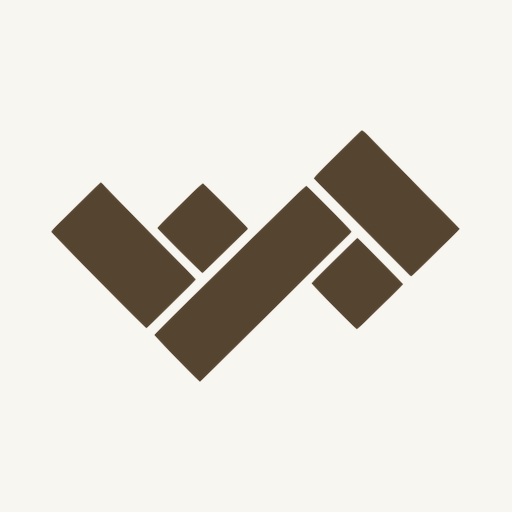
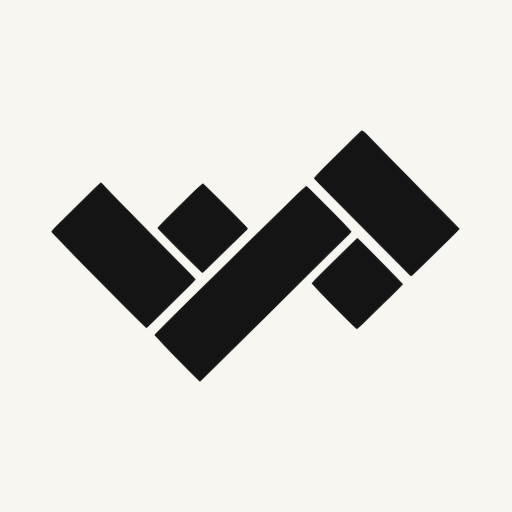
Black and white palette instead of the browns (Nick, 12 Oct)
- Colours: the espresso browns and honey accent are now black, charcoal
  and white; the light bands are a neutral grey.
- Logo in black in the white nav and in white in the footer (new
  img/logo-full-white.png from logo-full.png); favicon and home-screen
  icon in black.
- Hero location line in outline type on wider screens.
- Nick's team card shows a person icon instead of his initials.
- Legal pages: the Legal label stays dark on the light background.

The go-live changes (noindex off, canonical, og) are still held until he
pays.

Changed region(s): [[0.0938, 0.25, 0.9062, 0.75]]

diff --git a/style.css b/style.css
@@ -1,22 +1,22 @@
-/* Rodney Timber Floor Sanding: image-led, espresso + honey timber, Antonio + Figtree */
+/* Rodney Timber Floor Sanding: image-led, black and white (Nick, 12 Oct 2026: black instead of the browns), Antonio + Figtree */
 :root{
-  --accent:#d4913f;        /* honey timber, the one accent */
-  --accent-ink:#8a561b;    /* accent for text on light bands */
-  --brand:#55442f;         /* RTFS logo brown */
-  --char:#1a1511;
-  --char-2:#221b15;
-  --char-3:#2e251d;
-  --cream:#f4f0e8;
-  --ink:#1f1913;
-  --muted:#b3a99c;
-  --muted-dark:#5f554a;
+  --accent:#ffffff;        /* white, the one accent on black */
+  --accent-ink:#111111;    /* accent for text on light bands */
+  --brand:#111111;         /* RTFS logo, in black */
+  --char:#0b0b0b;
+  --char-2:#141414;
+  --char-3:#1e1e1e;
+  --cream:#f2f2f2;
+  --ink:#141414;
+  --muted:#a6a6a6;
+  --muted-dark:#555555;
   --line:rgba(255,255,255,.1);
   --display:'Antonio', 'Arial Narrow', sans-serif;
   --body:'Figtree', Arial, sans-serif;
 }
 *,*::before,*::after{box-sizing:border-box}
 html{scroll-behavior:smooth;scroll-padding-top:76px}
-body{margin:0;font-family:var(--body);font-size:17px;line-height:1.6;color:#ebe6df;background:var(--char);overflow-x:hidden}
+body{margin:0;font-family:var(--body);font-size:17px;line-height:1.6;color:#ebebeb;background:var(--char);overflow-x:hidden}
 img{max-width:100%;height:auto;display:block;image-orientation:from-image}
 a{color:var(--accent)}
 h1,h2,h3{font-family:var(--display);text-transform:uppercase;line-height:1;margin:0 0 .45em;font-weight:700;letter-spacing:.005em}
@@ -41,12 +41,15 @@ section{padding:100px 0;position:relative}
 .section-head h2{margin:0;max-width:760px}
 .section-head p{max-width:400px;margin:0}
 .btn{display:inline-flex;align-items:center;justify-content:center;gap:10px;min-height:52px;padding:14px 26px;font-family:var(--display);font-size:1.15rem;font-weight:600;letter-spacing:.08em;text-transform:uppercase;text-decoration:none;border:2px solid transparent;transition:background .2s,color .2s,border-color .2s,transform .2s;cursor:pointer}
-.btn-primary{background:var(--accent);color:#16110c}
-.btn-primary:hover{background:#fff;transform:translateY(-2px)}
+.btn-primary{background:var(--accent);color:#111}
+.btn-primary:hover{background:#d9d9d9;transform:translateY(-2px)}
+.nav .btn-primary,.band-light .btn-primary{background:#111;color:#fff}
+.nav .btn-primary:hover,.band-light .btn-primary:hover{background:#333}
 .btn-ghost{border-color:#fff;color:#fff}
 .btn-ghost:hover{background:#fff;color:#111}
 .btn svg{width:20px;height:20px;flex:none}
 :focus-visible{outline:3px solid var(--accent);outline-offset:3px}
+.nav :focus-visible,.band-light :focus-visible,.trust :focus-visible,.review-banner :focus-visible{outline-color:#111}
 .icon{width:26px;height:26px;flex:none}
 .center{margin-top:36px;text-align:center}
 .text-link{display:inline-flex;align-items:center;gap:8px;font-family:var(--display);font-size:1.1rem;letter-spacing:.1em;text-transform:uppercase;text-decoration:none;min-height:44px}
@@ -62,7 +65,7 @@ section{padding:100px 0;position:relative}
 .logo small{display:block;font-family:var(--body);font-weight:600;font-size:.72rem;letter-spacing:.22em;color:var(--muted-dark);margin-top:4px}
 .nav-links{display:flex;gap:28px;list-style:none;margin:0;padding:0}
 .nav-links a{color:var(--ink);text-decoration:none;font-family:var(--display);font-weight:600;font-size:1.05rem;letter-spacing:.1em;text-transform:uppercase;position:relative;padding:4px 0}
-.nav-links a::after{content:"";position:absolute;left:0;bottom:0;height:2px;width:0;background:var(--accent);transition:width .25s}
+.nav-links a::after{content:"";position:absolute;left:0;bottom:0;height:2px;width:0;background:var(--accent-ink);transition:width .25s}
 .nav-links a:hover::after{width:100%}
 .nav-right{display:flex;align-items:center;gap:8px}
 .nav-call{min-height:46px;padding:8px 18px;font-size:1.05rem}
@@ -70,7 +73,7 @@ section{padding:100px 0;position:relative}
 .burger{display:none;background:none;border:0;color:var(--ink);width:46px;height:46px;padding:10px;cursor:pointer}
 @media (max-width:1060px){
   .burger{display:block}
-  .nav-links{display:none;position:absolute;top:100%;left:0;right:0;flex-direction:column;gap:0;background:#fff;padding:8px 20px 24px;border-top:3px solid var(--accent);box-shadow:0 14px 30px rgba(0,0,0,.18)}
+  .nav-links{display:none;position:absolute;top:100%;left:0;right:0;flex-direction:column;gap:0;background:#fff;padding:8px 20px 24px;border-top:3px solid var(--accent-ink);box-shadow:0 14px 30px rgba(0,0,0,.18)}
   .nav-links.open{display:flex}
   .nav-links a{display:block;padding:14px 0;border-bottom:1px solid rgba(0,0,0,.08)}
 }
@@ -83,18 +86,19 @@ section{padding:100px 0;position:relative}
 .hero-slides img.active{opacity:1;animation:kenburns 8s ease-out forwards}
 .hero.paused .hero-slides img.active{animation-play-state:paused}
 @keyframes kenburns{from{transform:scale(1.02) translate(0,0)}to{transform:scale(1.13) translate(-1.5%,-1%)}}
-.hero::after{content:"";position:absolute;inset:0;background:linear-gradient(90deg,rgba(26,21,17,.86) 0%,rgba(26,21,17,.55) 55%,rgba(26,21,17,.32)),linear-gradient(0deg,rgba(26,21,17,.9),transparent 50%)}
+.hero::after{content:"";position:absolute;inset:0;background:linear-gradient(90deg,rgba(11,11,11,.86) 0%,rgba(11,11,11,.55) 55%,rgba(11,11,11,.32)),linear-gradient(0deg,rgba(11,11,11,.9),transparent 50%)}
 .hero .wrap{position:relative;z-index:2;width:100%}
 .hero h1{font-size:clamp(2.9rem,8.6vw,7.4rem);margin-bottom:22px}
 .hero h1 .line{display:block;overflow:hidden;padding-bottom:.05em}
 .hero h1 .line span{display:block}
-.hero h1 .hl{color:var(--accent)}
+.hero h1 .hl{color:#fff}
+@media (min-width:700px){@supports (-webkit-text-stroke:2px #fff){.hero h1 .hl{color:transparent;-webkit-text-stroke:2px #fff}}}
 .js .hero h1 .line span{transform:translateY(105%);animation:lineUp .9s cubic-bezier(.2,.8,.2,1) forwards}
 .js .hero h1 .line:nth-child(2) span{animation-delay:.15s}
 .js .hero h1 .line:nth-child(3) span{animation-delay:.3s}
 @keyframes lineUp{to{transform:translateY(0)}}
 .hero-bottom{display:flex;justify-content:space-between;align-items:flex-end;gap:30px;flex-wrap:wrap}
-.hero p.lead{font-size:clamp(1.05rem,2vw,1.28rem);color:#e2ddd5;max-width:560px;margin:0}
+.hero p.lead{font-size:clamp(1.05rem,2vw,1.28rem);color:#e3e3e3;max-width:560px;margin:0}
 .hero-ctas{display:flex;flex-wrap:wrap;gap:12px;margin:26px 0 0}
 .js .hero-fade{opacity:0;animation:fadeIn .8s ease .6s forwards}
 @keyframes fadeIn{to{opacity:1}}
@@ -102,7 +106,7 @@ section{padding:100px 0;position:relative}
 .rating:hover{background:rgba(255,255,255,.18)}
 .rating .num{font-family:var(--display);font-size:2.4rem;font-weight:700;line-height:1}
 .stars{color:var(--accent);letter-spacing:2px}
-.rating small{display:block;color:#ddd6cc;font-size:.88rem}
+.rating small{display:block;color:#d9d9d9;font-size:.88rem}
 .hero-controls{display:flex;align-items:center;gap:16px;margin-top:28px}
 .slide-dots{display:flex;gap:8px}
 .slide-dots span{width:40px;height:3px;background:rgba(255,255,255,.3);position:relative;overflow:hidden}
@@ -117,7 +121,7 @@ section{padding:100px 0;position:relative}
 .slide-toggle[aria-pressed="true"] .i-pause{display:none}
 
 /* ---------- TRUST STRIP ---------- */
-.trust{padding:0;background:var(--accent);color:#16110c}
+.trust{padding:0;background:#fff;color:#111}
 .trust-grid{display:grid;grid-template-columns:repeat(3,1fr)}
 .trust-item{display:flex;gap:14px;align-items:center;padding:26px 24px}
 .trust-item+.trust-item{border-left:2px solid rgba(0,0,0,.15)}
@@ -131,12 +135,12 @@ section{padding:100px 0;position:relative}
 .tile.wide{grid-column:span 2}
 .tile.full{grid-column:1/-1}
 .tile img{position:absolute;inset:0;width:100%;height:100%;object-fit:cover;filter:saturate(.85) contrast(1.06);transition:transform .8s cubic-bezier(.2,.8,.2,1)}
-.tile::after{content:"";position:absolute;inset:0;background:linear-gradient(0deg,rgba(26,21,17,.94) 0%,rgba(26,21,17,.4) 55%,rgba(26,21,17,.15))}
+.tile::after{content:"";position:absolute;inset:0;background:linear-gradient(0deg,rgba(11,11,11,.94) 0%,rgba(11,11,11,.4) 55%,rgba(11,11,11,.15))}
 .tile:hover img{transform:scale(1.07)}
 .tile-body{position:relative;z-index:2;padding:28px}
 .tile .num{font-family:var(--display);font-weight:600;color:var(--accent);letter-spacing:.15em;font-size:1rem;text-shadow:0 1px 8px rgba(0,0,0,.85)}
 .tile h3{font-size:2rem;margin:4px 0 6px}
-.tile p{margin:0;color:#ddd6cc;max-width:440px;font-size:.98rem}
+.tile p{margin:0;color:#d9d9d9;max-width:440px;font-size:.98rem}
 @media (max-width:900px){.tiles{grid-template-columns:1fr 1fr;grid-auto-rows:300px}.tile.wide,.tile.full{grid-column:span 2}}
 @media (max-width:600px){.tiles{grid-template-columns:1fr;grid-auto-rows:250px}.tile.wide,.tile.full{grid-column:auto}}
 
@@ -148,17 +152,17 @@ section{padding:100px 0;position:relative}
 .video-cover{position:relative;cursor:pointer;overflow:hidden}
 .video-cover img{width:100%;height:100%;object-fit:cover;filter:saturate(.85) contrast(1.06) brightness(.8);transition:transform .6s ease}
 .video-cover:hover img{transform:scale(1.05)}
-.video-cover .play{position:absolute;left:50%;top:50%;width:76px;height:76px;margin:-38px 0 0 -38px;display:grid;place-items:center;background:var(--accent);color:#16110c;transition:transform .2s}
+.video-cover .play{position:absolute;left:50%;top:50%;width:76px;height:76px;margin:-38px 0 0 -38px;display:grid;place-items:center;background:var(--accent);color:#111;transition:transform .2s}
 .video-cover:hover .play{transform:scale(1.08)}
 .video-cover .play svg{width:34px;height:34px}
-.video figcaption{font-family:var(--display);text-transform:uppercase;letter-spacing:.1em;font-size:1rem;color:#ddd6cc;margin-top:12px}
+.video figcaption{font-family:var(--display);text-transform:uppercase;letter-spacing:.1em;font-size:1rem;color:#d9d9d9;margin-top:12px}
 @media (max-width:860px){.video-row{grid-template-columns:minmax(0,260px)}}
 
 /* ---------- ABOUT ---------- */
 .about-grid{display:grid;grid-template-columns:1.1fr 1fr;gap:64px;align-items:center}
 .about-img{position:relative}
 .about-img img{width:100%;aspect-ratio:4/5;object-fit:cover;filter:saturate(.85) contrast(1.06)}
-.corner-tag{position:absolute;left:-1px;bottom:-1px;background:var(--accent);color:#16110c;padding:18px 22px;font-family:var(--display);font-weight:700;font-size:1.3rem;text-transform:uppercase;letter-spacing:.06em;line-height:1.1}
+.corner-tag{position:absolute;left:-1px;bottom:-1px;background:#111;color:#fff;padding:18px 22px;font-family:var(--display);font-weight:700;font-size:1.3rem;text-transform:uppercase;letter-spacing:.06em;line-height:1.1}
 .checklist{list-style:none;padding:0;margin:26px 0 0}
 .checklist li{display:flex;gap:14px;align-items:center;padding:14px 0;border-bottom:1px solid rgba(0,0,0,.12);font-weight:600;font-size:1.05rem}
 .checklist .icon{color:#fff;background:var(--brand);padding:5px;width:28px;height:28px}
@@ -167,12 +171,12 @@ section{padding:100px 0;position:relative}
 /* ---------- STATS BAND ---------- */
 .parallax{padding:0;height:520px;overflow:hidden;display:flex;align-items:center;color:#fff}
 .parallax .bg{position:absolute;left:0;right:0;top:-20%;height:140%;background:var(--char-3) url('img/band-1920.webp') center/cover no-repeat;filter:saturate(.8) contrast(1.06);will-change:transform}
-.parallax::after{content:"";position:absolute;inset:0;background:rgba(26,21,17,.66)}
+.parallax::after{content:"";position:absolute;inset:0;background:rgba(11,11,11,.64)}
 .parallax .wrap{position:relative;z-index:2;width:100%}
 .stats{display:grid;grid-template-columns:repeat(3,1fr);gap:30px}
 .stat .n{font-family:var(--display);font-weight:700;font-size:clamp(3.6rem,9vw,7rem);line-height:.9;color:#fff}
 .stat .n em{font-style:normal;color:var(--accent);font-size:.45em;letter-spacing:.04em}
-.stat p{font-family:var(--display);text-transform:uppercase;letter-spacing:.12em;font-size:1.1rem;color:#e0d9cf;margin:10px 0 0}
+.stat p{font-family:var(--display);text-transform:uppercase;letter-spacing:.12em;font-size:1.1rem;color:#e0e0e0;margin:10px 0 0}
 @media (max-width:700px){.parallax{height:auto;padding:90px 0}.stats{grid-template-columns:1fr;gap:34px}}
 
 /* ---------- GALLERY (masonry, natural ratios) ---------- */
@@ -185,8 +189,8 @@ section{padding:100px 0;position:relative}
 
 /* ---------- TEAM ---------- */
 .team-grid{display:grid;grid-template-columns:repeat(2,minmax(0,460px));gap:6px}
-.team-card{background:#fff;padding:36px 30px;border-top:4px solid var(--accent)}
-.avatar{width:84px;height:84px;background:var(--char);color:#fff;display:grid;place-items:center;font-family:var(--display);font-size:2rem;font-weight:700;margin-bottom:20px;box-shadow:6px 6px 0 var(--accent)}
+.team-card{background:#fff;padding:36px 30px;border-top:4px solid var(--accent-ink)}
+.avatar{width:84px;height:84px;background:var(--char);color:#fff;display:grid;place-items:center;font-family:var(--display);font-size:2rem;font-weight:700;margin-bottom:20px;box-shadow:6px 6px 0 #d0d0d0}
 .avatar .icon{width:38px;height:38px;color:var(--accent)}
 .team-card h3{color:var(--ink);margin-bottom:4px}
 .team-card .role{font-family:var(--display);text-transform:uppercase;letter-spacing:.14em;color:var(--accent-ink);font-weight:600;margin-bottom:12px}
@@ -204,12 +208,12 @@ section{padding:100px 0;position:relative}
 @media (max-width:680px){.reviews-grid{grid-template-columns:1fr}}
 
 /* ---------- LEAVE A REVIEW ---------- */
-.review-banner{background:var(--accent);color:#16110c;padding:60px 0}
+.review-banner{background:#fff;color:#111;padding:60px 0}
 .review-banner .wrap{display:flex;align-items:center;justify-content:space-between;gap:24px;flex-wrap:wrap}
 .review-banner h2{margin:0;font-size:clamp(2rem,5vw,3.3rem)}
 .review-banner p{margin:6px 0 0;font-weight:500}
-.review-banner .btn{background:#16110c;color:#fff}
-.review-banner .btn:hover{background:#fff;color:#16110c}
+.review-banner .btn{background:#111;color:#fff}
+.review-banner .btn:hover{background:#333;color:#fff}
 
 /* ---------- FAQ ---------- */
 .faq-grid{display:grid;grid-template-columns:1fr 1.6fr;gap:60px}
@@ -240,14 +244,14 @@ section{padding:100px 0;position:relative}
 
 /* ---------- MAP ---------- */
 .map{padding:0;background:var(--char)}
-.map iframe{width:100%;height:440px;border:0;display:block;filter:grayscale(.5) contrast(1.05)}
+.map iframe{width:100%;height:440px;border:0;display:block;filter:grayscale(1) contrast(1.05)}
 
 /* ---------- FOOTER ---------- */
-.footer{background:#120e0b;color:#a39a8e;padding:40px 0;font-size:.95rem;border-top:3px solid var(--accent)}
+.footer{background:#070707;color:#9a9a9a;padding:40px 0;font-size:.95rem;border-top:3px solid var(--accent)}
 .footer .wrap{display:flex;flex-wrap:wrap;gap:22px;justify-content:space-between;align-items:center}
 .foot-brand{display:flex;align-items:center;gap:18px}
 .foot-brand img{width:78px;height:auto}
-.footer a{color:#ddd6cc;text-decoration:none}
+.footer a{color:#dcdcdc;text-decoration:none}
 .footer a:hover{color:var(--accent)}
 .footer-links{display:flex;flex-wrap:wrap;gap:20px}
 .footer-links a{min-height:44px;display:inline-flex;align-items:center}
@@ -279,3 +283,6 @@ section{padding:100px 0;position:relative}
 .legal h2{font-size:1.8rem;margin-top:1.6em}
 .legal p,.legal li{color:var(--muted-dark)}
 .legal a{color:var(--accent-ink)}
+.legal .eyebrow{color:var(--accent-ink)}
+.legal .eyebrow::before{background:var(--accent-ink)}
+.legal :focus-visible{outline-color:#111}

diff --git a/index.html b/index.html
@@ -31,6 +31,7 @@
   <symbol id="i-check" viewBox="0 0 24 24" fill="none" stroke="currentColor" stroke-width="3" stroke-linecap="square"><path d="M20 6 9 17l-5-5"/></symbol>
   <symbol id="i-arrow" viewBox="0 0 24 24" fill="none" stroke="currentColor" stroke-width="2.5" stroke-linecap="square"><path d="M5 12h14M13 5l7 7-7 7"/></symbol>
   <symbol id="i-boards" viewBox="0 0 24 24" fill="none" stroke="currentColor" stroke-width="2" stroke-linejoin="round"><path d="M3 3h18v18H3z"/><path d="M3 9h7M10 3v6M14 9h7M14 3v18M3 15h11M8 15v6M14 15h7"/></symbol>
+  <symbol id="i-user" viewBox="0 0 24 24" fill="none" stroke="currentColor" stroke-width="2" stroke-linecap="round" stroke-linejoin="round"><circle cx="12" cy="8" r="4"/><path d="M4 21c0-4.4 3.6-8 8-8s8 3.6 8 8"/></symbol>
   <symbol id="i-swatch" viewBox="0 0 24 24" fill="none" stroke="currentColor" stroke-width="2" stroke-linejoin="round"><rect x="3" y="3" width="6" height="18"/><path d="m9 7 5-3 4 7-9 5"/><path d="M9 17h12v4H9"/><circle cx="6" cy="17.5" r="1" fill="currentColor"/></symbol>
   <symbol id="i-sheet" viewBox="0 0 24 24" fill="none" stroke="currentColor" stroke-width="2" stroke-linejoin="round" stroke-linecap="round"><path d="M3 20h18M5 20V9l7-5 7 5v11"/><path d="M9 20v-6h6v6"/></symbol>
   <symbol id="i-play" viewBox="0 0 24 24" fill="currentColor"><path d="M8 5v14l11-7z"/></symbol>
@@ -222,7 +223,7 @@
       <div><span class="eyebrow reveal">Who turns up</span><h2 class="reveal">The people on your floor</h2></div>
     </div>
     <div class="team-grid">
-      <div class="team-card reveal"><div class="avatar">NC</div><h3>Nick Coombe</h3><p class="role">Owner</p><p>Looks at your floor, talks you through the timber and the finish options, and runs the job from first sand to final coat.</p></div>
+      <div class="team-card reveal"><div class="avatar" aria-hidden="true"><svg class="icon"><use href="#i-user"/></svg></div><h3>Nick Coombe</h3><p class="role">Owner</p><p>Looks at your floor, talks you through the timber and the finish options, and runs the job from first sand to final coat.</p></div>
       <div class="team-card reveal"><div class="avatar" aria-hidden="true"><svg class="icon"><use href="#i-boards"/></svg></div><h3>Nick's team</h3><p class="role">Sanding &amp; coating</p><p>Extra hands on bigger homes and tight timeframes, so the job gets done properly and on time.</p></div>
     </div>
   </div>
@@ -307,7 +308,7 @@
 <footer class="footer">
   <div class="wrap">
     <div class="foot-brand">
-      <img src="img/logo-full-halo.png" alt="RTFS Floorsanding logo" width="1140" height="1227" loading="lazy">
+      <img src="img/logo-full-white.png" alt="RTFS Floorsanding logo" width="1105" height="1192" loading="lazy">
       <span>© <span id="year">2026</span> Rodney Timber Floor Sanding · Red Beach, Auckland</span>
     </div>
     <div class="footer-links">

diff --git a/privacy.html b/privacy.html
@@ -53,7 +53,7 @@
 <footer class="footer">
   <div class="wrap">
     <div class="foot-brand">
-      <img src="img/logo-full-halo.png" alt="RTFS Floorsanding logo" width="1140" height="1227" loading="lazy">
+      <img src="img/logo-full-white.png" alt="RTFS Floorsanding logo" width="1105" height="1192" loading="lazy">
       <span>© <span id="year">2026</span> Rodney Timber Floor Sanding · Red Beach, Auckland</span>
     </div>
     <div class="footer-links">

diff --git a/terms.html b/terms.html
@@ -55,7 +55,7 @@
 <footer class="footer">
   <div class="wrap">
     <div class="foot-brand">
-      <img src="img/logo-full-halo.png" alt="RTFS Floorsanding logo" width="1140" height="1227" loading="lazy">
+      <img src="img/logo-full-white.png" alt="RTFS Floorsanding logo" width="1105" height="1192" loading="lazy">
       <span>© <span id="year">2026</span> Rodney Timber Floor Sanding · Red Beach, Auckland</span>
     </div>
     <div class="footer-links">
